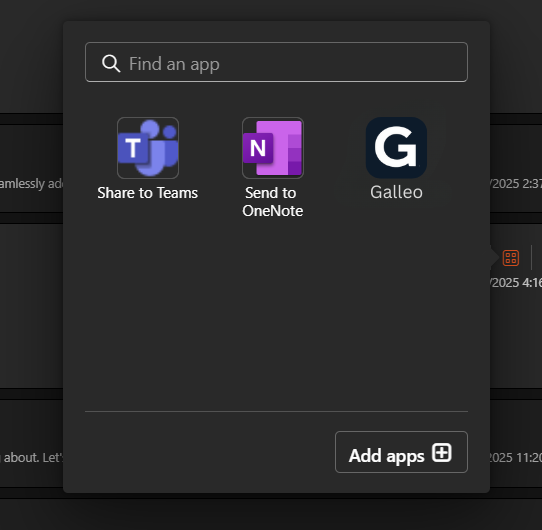
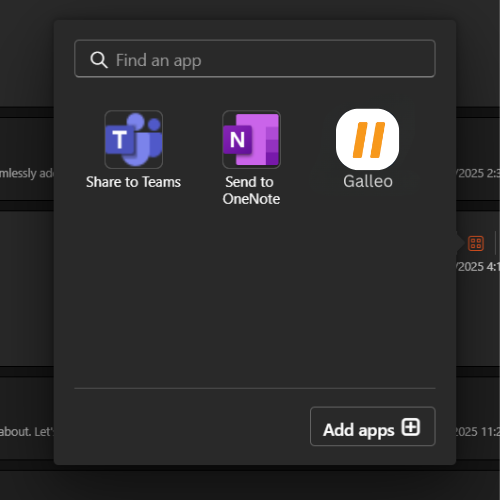
Update landing pages, components, and assets - Add integrated.png image - Update Galleo and ReLiti landing pages - Modify hero, CTA, and navigation components - Update site configuration and styling

diff --git a/apps/www/app/(marketing)/reliti/page.tsx b/apps/www/app/(marketing)/reliti/page.tsx
@@ -1,5 +1,6 @@
 "use client";
 import { buttonVariants } from "@galleo/ui/components/ui/button";
+import { cn } from "@galleo/ui/utils/cn";
 import { motion } from "motion/react";
 import Image from "next/image";
 import Link from "next/link";
@@ -8,6 +9,17 @@ export default function ReLitiPage() {
   const ease = [0.16, 1, 0.3, 1];
   return (
     <div className="flex flex-col bg-primary-bg text-foreground">
+      <style jsx>{`
+        .text-primary {
+          color: #0C8EF8 !important;
+        }
+        .bg-primary {
+          background-color: #0C8EF8 !important;
+        }
+        .border-primary {
+          border-color: #0C8EF8 !important;
+        }
+      `}</style>
       {/* Hero Section */}
       <section className="relative overflow-hidden py-20 md:py-24">
         <div className="absolute inset-0 opacity-10">
@@ -80,23 +92,24 @@ export default function ReLitiPage() {
               <Link
                 href="https://chromewebstore.google.com/detail/reliti-by-galleo/mligahkbimlnfogfnkchedcppejpmfkb?authuser=0&hl=en"
                 target="_blank"
-                className={buttonVariants()}
+                className={cn(
+                  buttonVariants(),
+                  "bg-slate-800 hover:bg-slate-700 text-white dark:bg-slate-200 dark:hover:bg-slate-300 dark:text-slate-900"
+                )}
               >
-                <span className="relative z-10 flex items-center">
-                  Get the ReLiti Chrome Extension Today
-                  <svg
-                    className="ml-2 h-5 w-5 transition-transform duration-300 group-hover:translate-x-1"
-                    viewBox="0 0 20 20"
-                    fill="currentColor"
-                  >
-                    <title>Arrow Right</title>
-                    <path
-                      fillRule="evenodd"
-                      d="M10.293 5.293a1 1 0 011.414 0l4 4a1 1 0 010 1.414l-4 4a1 1 0 01-1.414-1.414L12.586 11H5a1 1 0 110-2h7.586l-2.293-2.293a1 1 0 010-1.414z"
-                      clipRule="evenodd"
-                    />
-                  </svg>
-                </span>
+                Get the ReLiti Chrome Extension Today
+                <svg
+                  className="ml-2 h-5 w-5 transition-transform duration-300 group-hover:translate-x-1"
+                  viewBox="0 0 20 20"
+                  fill="currentColor"
+                >
+                  <title>Arrow Right</title>
+                  <path
+                    fillRule="evenodd"
+                    d="M10.293 5.293a1 1 0 011.414 0l4 4a1 1 0 010 1.414l-4 4a1 1 0 01-1.414-1.414L12.586 11H5a1 1 0 110-2h7.586l-2.293-2.293a1 1 0 010-1.414z"
+                    clipRule="evenodd"
+                  />
+                </svg>
               </Link>
             </motion.div>
           </div>
@@ -576,23 +589,24 @@ export default function ReLitiPage() {
               <Link
                 href="https://chromewebstore.google.com/detail/reliti-by-galleo/mligahkbimlnfogfnkchedcppejpmfkb?authuser=0&hl=en"
                 target="_blank"
-                className={buttonVariants()}
+                className={cn(
+                  buttonVariants(),
+                  "bg-slate-800 hover:bg-slate-700 text-white dark:bg-slate-200 dark:hover:bg-slate-300 dark:text-slate-900"
+                )}
               >
-                <span className="relative z-10 flex items-center">
-                  Get ReLiti Now
-                  <svg
-                    className="ml-2 h-5 w-5 transition-transform duration-300 group-hover:translate-x-1"
-                    viewBox="0 0 20 20"
-                    fill="currentColor"
-                  >
-                    <title>Arrow Right</title>
-                    <path
-                      fillRule="evenodd"
-                      d="M10.293 5.293a1 1 0 011.414 0l4 4a1 1 0 010 1.414l-4 4a1 1 0 01-1.414-1.414L12.586 11H5a1 1 0 110-2h7.586l-2.293-2.293a1 1 0 010-1.414z"
-                      clipRule="evenodd"
-                    />
-                  </svg>
-                </span>
+                Get ReLiti Now
+                <svg
+                  className="ml-2 h-5 w-5 transition-transform duration-300 group-hover:translate-x-1"
+                  viewBox="0 0 20 20"
+                  fill="currentColor"
+                >
+                  <title>Arrow Right</title>
+                  <path
+                    fillRule="evenodd"
+                    d="M10.293 5.293a1 1 0 011.414 0l4 4a1 1 0 010 1.414l-4 4a1 1 0 01-1.414-1.414L12.586 11H5a1 1 0 110-2h7.586l-2.293-2.293a1 1 0 010-1.414z"
+                    clipRule="evenodd"
+                  />
+                </svg>
               </Link>
             </div>
           </div>

diff --git a/apps/www/app/(marketing)/_components/feature/container.tsx b/apps/www/app/(marketing)/_components/feature/container.tsx
@@ -22,24 +22,26 @@ export function FeatureSection({
   position = "right",
 }: FeatureSectionProps) {
   const ContentSection = (
-    <div className="flex h-full items-center bg-muted px-4 py-10 md:px-12 md:py-24 lg:px-24">
+    <div className="flex h-full items-center bg-muted border-2 border-border/70 dark:bg-muted dark:border-border/50 px-4 py-10 md:px-12 md:py-24 lg:px-24 shadow-sm">
       <div className="max-w-xl">
         <span className="font-medium text-muted-foreground text-sm">
           {label}
         </span>
-        <h2 className="mt-6 font-medium text-5xl text-foreground leading-tight">
+        <h2 className="mt-6 font-bold font-sans text-4xl text-foreground tracking-tight sm:text-5xl leading-tight">
           {title}
         </h2>
         <div className="mt-6 text-lg text-muted-foreground">{description}</div>
-        <a
-          href={siteConfig.links.talkToUs}
-          data-attr={ctaText}
-          target="_blank"
-          className="mt-8 flex items-center font-medium text-muted-foreground text-sm hover:text-foreground"
-          rel="noreferrer"
-        >
-          {ctaText} &rarr;
-        </a>
+        {ctaText && (
+          <a
+            href={siteConfig.links.talkToUs}
+            data-attr={ctaText}
+            target="_blank"
+            className="mt-8 flex items-center font-medium text-muted-foreground text-sm hover:text-foreground"
+            rel="noreferrer"
+          >
+            {ctaText}
+          </a>
+        )}
       </div>
     </div>
   );

diff --git a/apps/www/app/(marketing)/insights/_components/ClientBlogGrid.tsx b/apps/www/app/(marketing)/insights/_components/ClientBlogGrid.tsx
@@ -104,10 +104,10 @@ export default function ClientBlogGrid({ articles }: { articles: Content[] }) {
         <nav className="mb-4 flex flex-wrap justify-center gap-2">
           <button
             type="button"
-            className={`rounded-full px-4 py-2 font-medium ${
+            className={`rounded-full px-4 py-2 font-medium border transition-colors ${
               !selectedCategory
-                ? "bg-primary text-white"
-                : "bg-muted text-muted-foreground"
+                ? "bg-primary text-white border-primary"
+                : "bg-muted text-muted-foreground border-border hover:border-primary/50"
             }`}
             onClick={() => handleCategoryChange(null)}
           >
@@ -117,10 +117,10 @@ export default function ClientBlogGrid({ articles }: { articles: Content[] }) {
             <button
               type="button"
               key={cat}
-              className={`rounded-full px-4 py-2 font-medium ${
+              className={`rounded-full px-4 py-2 font-medium border transition-colors ${
                 selectedCategory === cat
-                  ? "bg-primary text-white"
-                  : "bg-muted text-muted-foreground"
+                  ? "bg-primary text-white border-primary"
+                  : "bg-muted text-muted-foreground border-border hover:border-primary/50"
               } w-fit`}
               onClick={() => handleCategoryChange(cat)}
             >

diff --git a/apps/www/app/(marketing)/_components/navigation/action-buttons.tsx b/apps/www/app/(marketing)/_components/navigation/action-buttons.tsx
@@ -2,6 +2,7 @@
 
 import { ThemeToggle } from "@galleo/ui/components/theme-provider";
 import { buttonVariants } from "@galleo/ui/components/ui/button";
+import { cn } from "@galleo/ui/utils/cn";
 import Link from "next/link";
 import { type HeaderButtonConfig, siteConfig } from "~/lib/site-config";
 
@@ -16,12 +17,17 @@ export function ActionButtons() {
         key={item.label}
         href={item.href}
         data-attr={`header-button-${item.label}`}
-        className={buttonVariants({
-          variant:
-            item.buttonVariant === "navigation"
-              ? "default"
-              : item.buttonVariant,
-        })}
+        className={cn(
+          buttonVariants({
+            variant:
+              item.buttonVariant === "navigation"
+                ? "default"
+                : item.buttonVariant,
+            size: item.size || "default",
+          }),
+          // Custom styling for Try Galleo Today button
+          item.label === "Try Galleo Today" && "bg-slate-800 hover:bg-slate-700 text-white dark:bg-slate-200 dark:hover:bg-slate-300 dark:text-slate-900"
+        )}
         target={item.target}
       >
         {item.label}

diff --git a/packages/ui/src/components/icon.tsx b/packages/ui/src/components/icon.tsx
@@ -91,3 +91,51 @@ export const GitHub = (props: IconProps) => (
     />
   </svg>
 );
+
+export function ReLitiLogo(props: IconProps) {
+  return (
+    <svg
+      width="120"
+      height="32"
+      viewBox="0 0 120 32"
+      xmlns="http://www.w3.org/2000/svg"
+      {...props}
+    >
+      <title>ReLiti logo</title>
+      <defs>
+        <linearGradient id="relitiGradient" x1="0%" y1="0%" x2="0%" y2="100%">
+          <stop offset="0%" stopColor="#0C8EF8" />
+          <stop offset="100%" stopColor="#0A7CE6" />
+        </linearGradient>
+      </defs>
+      <g>
+        <rect
+          x="2"
+          y="6"
+          width="4"
+          height="20"
+          rx="2"
+          fill="url(#relitiGradient)"
+        />
+        <rect
+          x="10"
+          y="6"
+          width="4"
+          height="20"
+          rx="2"
+          fill="url(#relitiGradient)"
+        />
+      </g>
+      <text
+        x="20"
+        y="20"
+        fontFamily="Inter, -apple-system, BlinkMacSystemFont, sans-serif"
+        fontSize="18"
+        fontWeight="600"
+        fill="currentColor"
+      >
+        ReLiti
+      </text>
+    </svg>
+  );
+}

diff --git a/apps/www/app/(marketing)/_components/hero/title.tsx b/apps/www/app/(marketing)/_components/hero/title.tsx
@@ -6,7 +6,7 @@ export function HeroTitle() {
   return (
     <div className="mx-auto flex w-full max-w-2xl flex-col items-center space-y-4 overflow-hidden">
       <motion.h1
-        className="text-center font-medium text-4xl text-foreground sm:text-5xl md:text-6xl"
+        className="text-center font-bold font-sans text-5xl text-foreground tracking-tight sm:text-6xl md:text-7xl"
         initial={{ filter: "blur(10px)", opacity: 0, y: 50 }}
         animate={{ filter: "blur(0px)", opacity: 1, y: 0 }}
         transition={{
@@ -18,7 +18,7 @@ export function HeroTitle() {
         {siteConfig.hero.title.map((text, index) => (
           <motion.span
             key={text}
-            className={`inline-block text-balance px-1 font-semibold leading-[1.1] tracking-wide md:px-2 ${
+            className={`inline-block text-balance px-1 font-bold leading-[1.1] tracking-tight md:px-2 ${
               index % 2 === 1 ? "text-primary" : ""
             }`}
             initial={{ opacity: 0, y: 20 }}

diff --git a/apps/www/lib/site-config.tsx b/apps/www/lib/site-config.tsx
@@ -40,6 +40,7 @@ export const siteConfig: SiteConfig = {
     {
       variant: "button",
       buttonVariant: "default",
+      size: "lg",
       target: "_blank",
       href: ROUTE_DASHBOARD,
       label: "Try Galleo Today",
@@ -54,6 +55,7 @@ export const siteConfig: SiteConfig = {
       label: "Try Galleo Today",
       target: "_blank",
       buttonVariant: "default",
+      size: "lg",
     },
   },
   socialProof: {
@@ -102,6 +104,7 @@ export const siteConfig: SiteConfig = {
 export type HeaderButtonConfig = {
   variant: "button";
   buttonVariant: ButtonProps["variant"] | "navigation";
+  size?: ButtonProps["size"];
   target?: "_blank" | "_self" | "_parent" | "_top";
   href: string;
   label: string;
@@ -153,6 +156,7 @@ export type SiteConfig = {
       href: string;
       label: string;
       buttonVariant: ButtonProps["variant"];
+      size?: ButtonProps["size"];
       target?: HeaderButtonConfig["target"];
       subtitle?: string;
     };

diff --git a/apps/www/app/(marketing)/page.tsx b/apps/www/app/(marketing)/page.tsx
@@ -20,7 +20,7 @@ export default function LandingPage() {
 
       <Section>
         <div className="mx-auto max-w-3xl text-center">
-          <h2 className="mb-4 font-bold font-sans text-4xl text-foreground tracking-tight">
+          <h2 className="mb-4 font-bold font-sans text-4xl text-foreground tracking-tight sm:text-5xl">
             Your{" "}
             <span className="text-primary">Trademark Response Powerhouse</span>,
             Built by <span className="text-primary">IP Professionals</span>
@@ -475,7 +475,7 @@ export default function LandingPage() {
 
       <Section>
         <div className="mx-auto max-w-3xl text-center">
-          <h2 className="mb-4 font-bold text-3xl tracking-tight">
+          <h2 className="mb-4 font-bold font-sans text-4xl text-foreground tracking-tight sm:text-5xl">
             Get Started in <span className="text-primary">3 Simple Steps</span>
           </h2>
           <div className="text-muted-foreground">

diff --git a/packages/ui/src/style.css b/packages/ui/src/style.css
@@ -19,7 +19,7 @@ code {
   --card-foreground: oklch(0.145 0 0);
   --popover: oklch(1 0 0);
   --popover-foreground: oklch(0.145 0 0);
-  --primary: oklch(80.15768657996341% 0.171 73.2670018290408);
+  --primary: oklch(0.73 0.166 65.2);
   --primary-foreground: oklch(0.985 0 0);
   --secondary: oklch(0.97 0 0);
   --secondary-foreground: oklch(0.205 0 0);
@@ -47,13 +47,13 @@ code {
 }
 
 .dark {
-  --background: oklch(0.145 0 0);
+  --background: oklch(0.159 0.028 244);
   --foreground: oklch(0.985 0 0);
   --card: oklch(0.205 0 0);
   --card-foreground: oklch(0.985 0 0);
   --popover: oklch(0.269 0 0);
   --popover-foreground: oklch(0.985 0 0);
-  --primary: oklch(80.15768657996341% 0.171 73.2670018290408);
+  --primary: oklch(0.73 0.166 65.2);
   --primary-foreground: oklch(0.205 0 0);
   --secondary: oklch(0.269 0 0);
   --secondary-foreground: oklch(0.985 0 0);

diff --git a/apps/www/app/(marketing)/_components/hero/cta.tsx b/apps/www/app/(marketing)/_components/hero/cta.tsx
@@ -17,13 +17,17 @@ export function HeroCTA() {
         <Link
           href={siteConfig.hero.cta.href}
           className={cn(
-            buttonVariants({ variant: siteConfig.hero.cta.buttonVariant }),
+            buttonVariants({ 
+              variant: siteConfig.hero.cta.buttonVariant,
+              size: siteConfig.hero.cta.size || "default",
+            }),
             "flex w-full items-center sm:w-auto [&_svg]:size-3",
+            "bg-slate-800 hover:bg-slate-700 text-white dark:bg-slate-200 dark:hover:bg-slate-300 dark:text-slate-900"
           )}
           data-attr={`hero-cta-${siteConfig.hero.cta.label}`}
           target={siteConfig.hero.cta.target}
         >
-          {siteConfig.hero.cta.label}
+          Try Galleo Today
         </Link>
       </motion.div>
       {siteConfig.hero.cta.subtitle && (

diff --git a/apps/www/app/(marketing)/_components/cta.tsx b/apps/www/app/(marketing)/_components/cta.tsx
@@ -18,11 +18,13 @@ export function Cta() {
           href={siteConfig.cta.href}
           target="_blank"
           className={cn(
-            "cta-button-light rounded-md px-5 py-3 font-medium shadow-sm dark:bg-primary dark:text-primary-foreground dark:hover:bg-primary/90",
-            "flex w-full items-center justify-center gap-2 sm:w-auto",
+            "rounded-md px-6 py-4 font-medium text-lg shadow-sm transition-colors",
+            "flex w-full items-center justify-center gap-3 sm:w-auto",
+            // Custom styling for better contrast with orange logo
+            "bg-slate-800 hover:bg-slate-700 text-white dark:bg-slate-200 dark:hover:bg-slate-300 dark:text-slate-900"
           )}
         >
-          {siteConfig.cta.buttonText}
+          Try Galleo Today
         </Link>
       </div>
     </Section>
